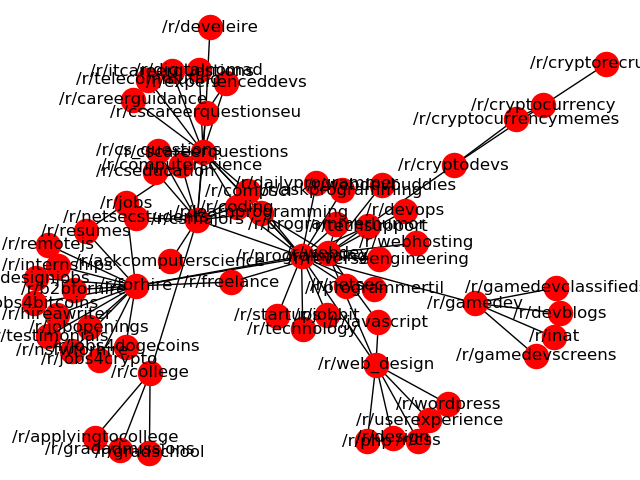
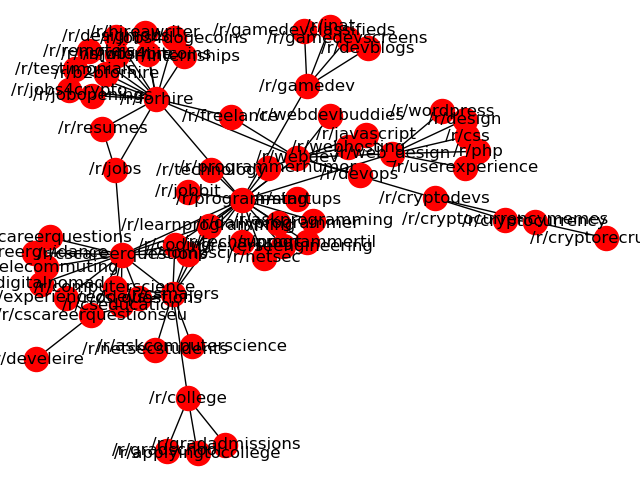
Finished draft of writeup

diff --git a/reports/Summary.rst b/reports/Summary.rst
@@ -107,17 +107,14 @@ subreddit is represented by the radius of the node (using a
 log-scale).
 
 One of the most salient features is the "spoke-and-hub" structure:
-a larger subreddit links to many smaller subreddits, which are
-often dedicated to a more specific topic. For example,
+a larger subreddit links to many smaller subreddits, which
+are often dedicated to a more specific topic. For example,
 /r/financialindependence is linked to country-specific subreddits
-for Canada (/r/canadaFIRE ?), UK (/r/ukfire), and so on.  These
-can often be sensibly grouped into a cluster of nodes based on
-their subject matter. An example of this is the the closely
-related subreddits surrounding /r/collapse which are all dedicated
-to the topic of societal and economic collapse.
-
-.. TODO: clarify which subreddits
-
+for Canada (/r/personalfinancecanada), UK (/r/ukpersonalfinance),
+and so on. These can often be sensibly grouped into a cluster of
+nodes based on their subject matter. An example of this is the
+closely related subreddits surrounding /r/collapse which are all
+dedicated to the topic of societal and economic collapse.
 
 Analysis
 --------
@@ -125,7 +122,7 @@ Analysis
 Average Degree and Density
 ``````````````````````````
 
-One descriptive statistic of a graph is the *average degree*.  The
+One descriptive statistic of a graph is the *average degree*. The
 degree of a node is the number of edges connected to it. The
 average degree of a graph is simply the average of the degrees of
 each of its nodes. These two networks have low average degrees,
@@ -143,7 +140,7 @@ other node. For a graph with *n* nodes, this would result in *n*
 choose 2 or *n \* (n - 1) / 2* edges. The density thus varies from
 0 (in a graph with no edges) to 1 (in a graph with every possible
 edge). The densities of the financial and programming graphs are
-0.01 and 0.04, respectivity, so they have low density.
+0.01 and 0.04, respectively, so they have low density.
 
 Centrality
 ``````````
@@ -187,33 +184,27 @@ linked to any other nodes. Any path from one of these nodes to
 another other must necessarily pass through /r/collapse,
 contributing to its high centrality.
 
-.. TODO: proof-read below
-
 Clustering
 ``````````
 
-Another metric for network analysis is the *clustering
-coefficient.*
+Another metric for describing a network is the *clustering
+coefficient.* Before we define this, first define a *triangle* as
+a sub-graph of three nodes that are all connected to each other.
+Suppose we have a node *u* with degree *n*. The maximum possible
+of triangles including *u* is *n* choose 2, or *n \* (n - 1) / 2*.
+The clustering coefficient is the number of existing triangles
+including node *u* divided by this maximum possible number.
+So, this coefficient will always be between 0 and 1. It can be
+interpreted as the tendency of a node to cluster with other nodes.
+Any node that is only connected to a single other node will always have
+a clustering coefficient of 0. If all of a node's neighboring nodes are
+connected, then the node will have a clustering coefficient of 1.
 
-As explained above, the degree of a node is the number of nodes it
-is connected to. Suppose there is a node *u* with degree *n*. A
-*triangle* is a sub-graph of three nodes that are each connected
-to each other. The maximum possible of triangles including *u* is
-*n* choose 2, or *n \* (n - 1) / 2*. The number of existing
-triangles including node *u* is divided by this maximum number.
-So, the clustering coefficient will always be between 0 and 1. It
-can be interpreted as the [appropriateness of grouping the node
-with the others it is connected to].
-
-Any node that is only connected to a single other node will always
-have a clustering coefficient of 0. If all of a node's neighboring
-nodes are connected, then the node will have a clustering
-coefficient of 1.
-
-Most of the nodes in our two networks are spokes only connected to
-a single hub node and will have a clustering coefficient of 0.
-Nodes with coefficients much larger than 0 are more rare.  This is
-perhaps not surprising given that these are sparse graphs.
+Most of the nodes in our two networks are spokes connected only to
+a single hub node and thus will have a clustering coefficient of
+0. Nodes with coefficients significantly larger than 0 are more
+rare in these networks. This is perhaps not surprising given that
+these are sparse graphs.
 
 The nodes in the programming network with the highest clustering
 coefficients are:
@@ -238,24 +229,24 @@ Subreddit			Clustering Coefficient     Edges
 
 Many of these have only two or three few neighbors, so the
 clustering coefficient of 1 is less significant. In contrast,
-/r/csmajors has a coefficient of only 0.17, but it has 12
+while /r/csmajors has a coefficient of only 0.17, it has 12
 neighbors: out of the 66 possible triangles, 11 of them are fully
-connected. This subreddit may be more of a cluster than many of
-those in the list above.
+connected. This subreddit be part of something closer to a cluster
+than many of nodes with a clustering coefficient of 1.
 
-
-Conclusion
+Next Steps
 ----------
 
-There is much room for expansion on this sort of analysis. A more
-extensive network could be constructed by crawling the actual
-posts on each messageboard and collecting hyperlinks given there.
-Links to webpages outside of reddit.com could also be crawled.
-The number of links between webpages could be tabulated in order
-to measure the *strength* of each link in the network. Instead of
-an undirected graph, the direction of the links could be
-incorporated into the model.
+There is much room for expansion on this sort of analysis. Some
+further avenues to explore are:
 
-Network analysis can give insights into the organization of a
-network...
-
+    1. A more extensive network could be constructed by crawling the
+    actual posts on each messageboard and collecting hyperlinks given
+    there. Links to webpages outside of reddit.com could also be
+    crawled.
+    
+    2. The number of links between webpages could be tabulated in
+    order to measure the *strength* of each link in the network.
+    
+    3. Instead of an undirected graph, the direction of the links
+    could be incorporated into the model.
